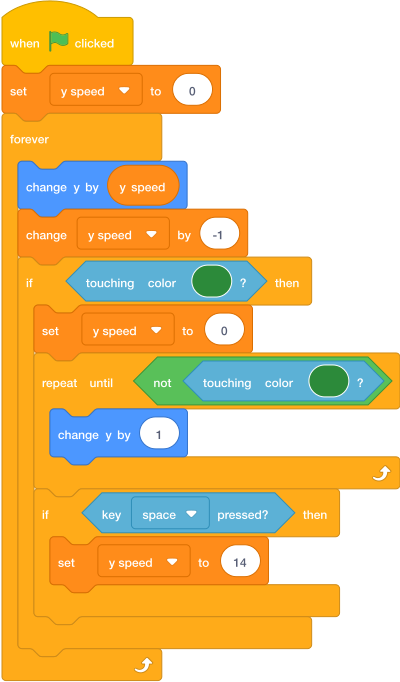
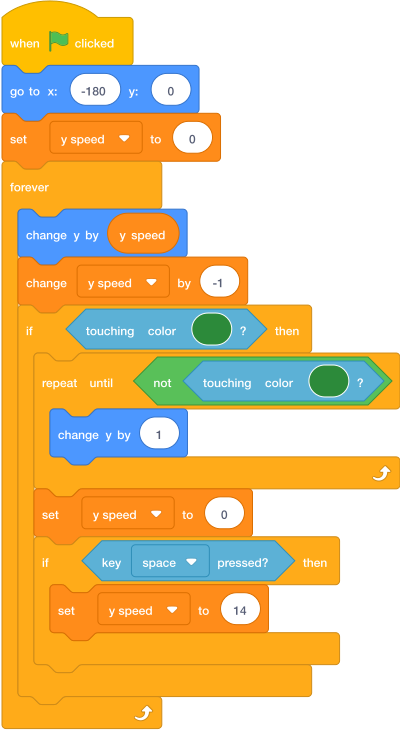
commit

diff --git a/docs/arcade-quest/tasks/07-add-coin.md b/docs/arcade-quest/tasks/07-add-coin.md
@@ -2,7 +2,7 @@
 
 ## Goal
 
-Add a collectable item for the player to grab.
+Create a separate collectable sprite for the player to grab.
 
 ## Watch First
 
@@ -10,12 +10,16 @@ Watch the sprite-making video in [Task 1: Draw Your Hero](01-draw-hero.md#watch-
 
 ## Do This
 
-1. Click **Choose a Sprite**.
-2. Click **Paint**.
-3. Draw a small coin, gem, star, or fruit collectable.
-4. Rename the sprite `Coin`.
-5. Put it above a platform.
+1. Make sure you are looking at the sprite list, not painting the backdrop.
+2. Click **Choose a Sprite** below the Stage.
+3. Click **Paint**.
+4. Draw a small coin, gem, star, or fruit collectable.
+5. Rename the new sprite `Coin`.
+6. Put it above a platform.
+
+!!! warning "The coin must be a sprite"
+    Do not paint the coin onto the backdrop. Backdrop drawings cannot detect the `Player`, hide, play their own sound, or increase the score.
 
 ## Check
 
-Your sprite list should contain a sprite called `Coin`.
+Your sprite list should contain separate `Player` and `Coin` sprites.

diff --git a/docs/arcade-quest/tasks/05-jump-gravity.md b/docs/arcade-quest/tasks/05-jump-gravity.md
@@ -9,11 +9,12 @@ Make the player jump and fall back down.
 1. In the sprite list below the Stage, click the `Player` sprite. (If you cannot remember where the sprite list is, go back to [Start Here: Where To Click Sprites](../../index.md#where-to-click-sprites).)
 2. Build this code.
 3. Use the same green colour as your ground.
-4. Press the green flag.
-5. Press **space** to jump.
+4. Check that the space-key test is **inside** the `if touching colour` block. This prevents jumping in the air.
+5. Press the green flag. The player should start at `x: -180`, `y: 0` and fall onto the ground.
+6. Tap **space** to jump.
 
 ![Scratch blocks for jump and gravity](../assets/scratchblocks/player-jump.png){ .scratch-image }
 
 ## Check
 
-The player should jump, fall, and stop on the green ground.
+The player should start on screen, jump, fall, and stop on the green ground. Holding **space** must not make the player fly upwards.

diff --git a/docs/arcade-quest/tasks/12-coin-sound.md b/docs/arcade-quest/tasks/12-coin-sound.md
@@ -12,8 +12,12 @@ Make collecting a coin feel satisfying.
 4. Choose a short sound from the Scratch sound library.
 5. Go back to **Code**.
 6. Make sure your collect code includes `play sound coin until done`.
-7. Test the game.
+7. Test the game. The coin should make a sound and disappear when collected.
+8. Right-click the completed `Coin` sprite in the sprite list and choose **duplicate**.
+9. Make several coin copies and drag each one to a different reachable place.
+
+Duplicating the completed sprite copies its costume, sound, and collection code. Do not draw extra coins onto the backdrop.
 
 ## Check
 
-You should hear a sound when the player collects the coin.
+Every coin should be a separate sprite. Each one should make a sound, add `1` to the score, disappear when collected, and reappear when the green flag is pressed.

diff --git a/docs/arcade-quest/tasks/04-left-right.md b/docs/arcade-quest/tasks/04-left-right.md
@@ -8,11 +8,12 @@ Make the player move with the arrow keys.
 
 1. In the sprite list below the Stage, click the `Player` sprite. (If you cannot remember where the sprite list is, go back to [Start Here: Where To Click Sprites](../../index.md#where-to-click-sprites).)
 2. Build this code.
-3. Press the green flag.
-4. Test the left and right arrow keys.
+3. Make sure `set rotation style` says **left-right**. This stops the player turning upside down.
+4. Press the green flag.
+5. Test the left and right arrow keys.
 
 ![Scratch blocks for moving the player left and right](../assets/scratchblocks/player-move.png){ .scratch-image }
 
 ## Check
 
-The player should move left and right.
+The player should move left and right and face the direction it is moving.

diff --git a/docs/arcade-quest/tasks/09-reset-score.md b/docs/arcade-quest/tasks/09-reset-score.md
@@ -6,7 +6,7 @@ Make the score start at zero.
 
 ## Do This
 
-1. In the sprite list below the Stage, click the `Coin` sprite, or click the Stage thumbnail. (If you cannot remember where the sprite list is, go back to [Start Here: Where To Click Sprites](../../index.md#where-to-click-sprites).)
+1. Click the **Stage** thumbnail. This keeps the score reset separate from the coin copies you will make later. (If you cannot remember where the sprite list is, go back to [Start Here: Where To Click Sprites](../../index.md#where-to-click-sprites).)
 2. Build this code.
 3. Press the green flag.
 

diff --git a/docs/arcade-quest/tasks/10-place-coins.md b/docs/arcade-quest/tasks/10-place-coins.md
@@ -1,8 +1,8 @@
-# Task 10: Place Coins
+# Task 10: Place Your First Coin
 
 ## Goal
 
-Put collectables where the player can reach them.
+Put the first collectable where the player can reach it.
 
 ## Do This
 
@@ -13,4 +13,4 @@ Put collectables where the player can reach them.
 
 ## Check
 
-The coin should be reachable, but not too easy.
+The coin should be visible and reachable. It must appear in the sprite list as `Coin`.

diff --git a/docs/arcade-quest/tasks/11-collect-coins.md b/docs/arcade-quest/tasks/11-collect-coins.md
@@ -15,4 +15,4 @@ Make the coin increase the score when the player touches it.
 
 ## Check
 
-The score should go up by `1`, and the coin should move to a new place.
+The score should go up by `1` and the coin should disappear. Pressing the green flag should show it again.
